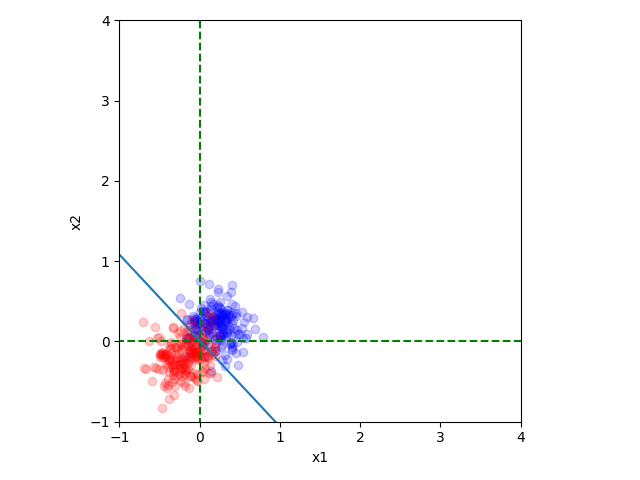
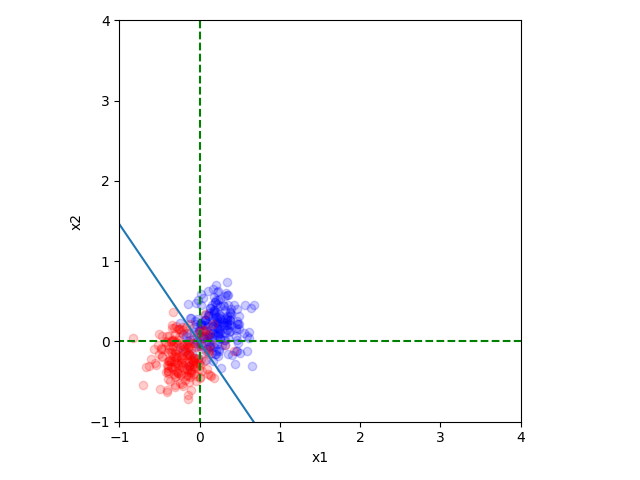
Q1 is Done!

Changed region(s): [[0.1875, 0.4688, 0.4375, 0.875]]

diff --git a/q1_todo.py b/q1_todo.py
@@ -3,7 +3,9 @@ import numpy as np
 
 
 def sigmoid(X, w, b):
-    return 1 / (1 + np.exp(-(X@w+b)))
+    b_temp = np.array(X.shape[0]*[b[0]])
+    z = X @ w + b_temp
+    return 1 / (1 + np.exp(-z))
 
 
 def train_logistic_regression(X, t):
@@ -17,7 +19,7 @@ def train_logistic_regression(X, t):
 
 
     def grad(x,w,b,t):
-        z = sigmoid(x.T,w,b)
+        z = sigmoid(x,w,b)
         grad_b = (z-t)
         grad_w = (z-t)*x.T
         return grad_w,grad_b
@@ -28,7 +30,7 @@ def train_logistic_regression(X, t):
 
 
     while error >= epsilon:
-        for row_counter in range(X.shape[1]):
+        for row_counter in range(X.shape[0]):
             x = X[row_counter,:]
             grad_w,grad_b = grad(x,w,b,t[row_counter])
             
@@ -38,9 +40,6 @@ def train_logistic_regression(X, t):
 
         # Calculate the error
         error = (1/X.shape[0])*np.linalg.norm(predict_logistic_regression(X, w, b)-t)
-
-    
-
     return w, b
 
 
